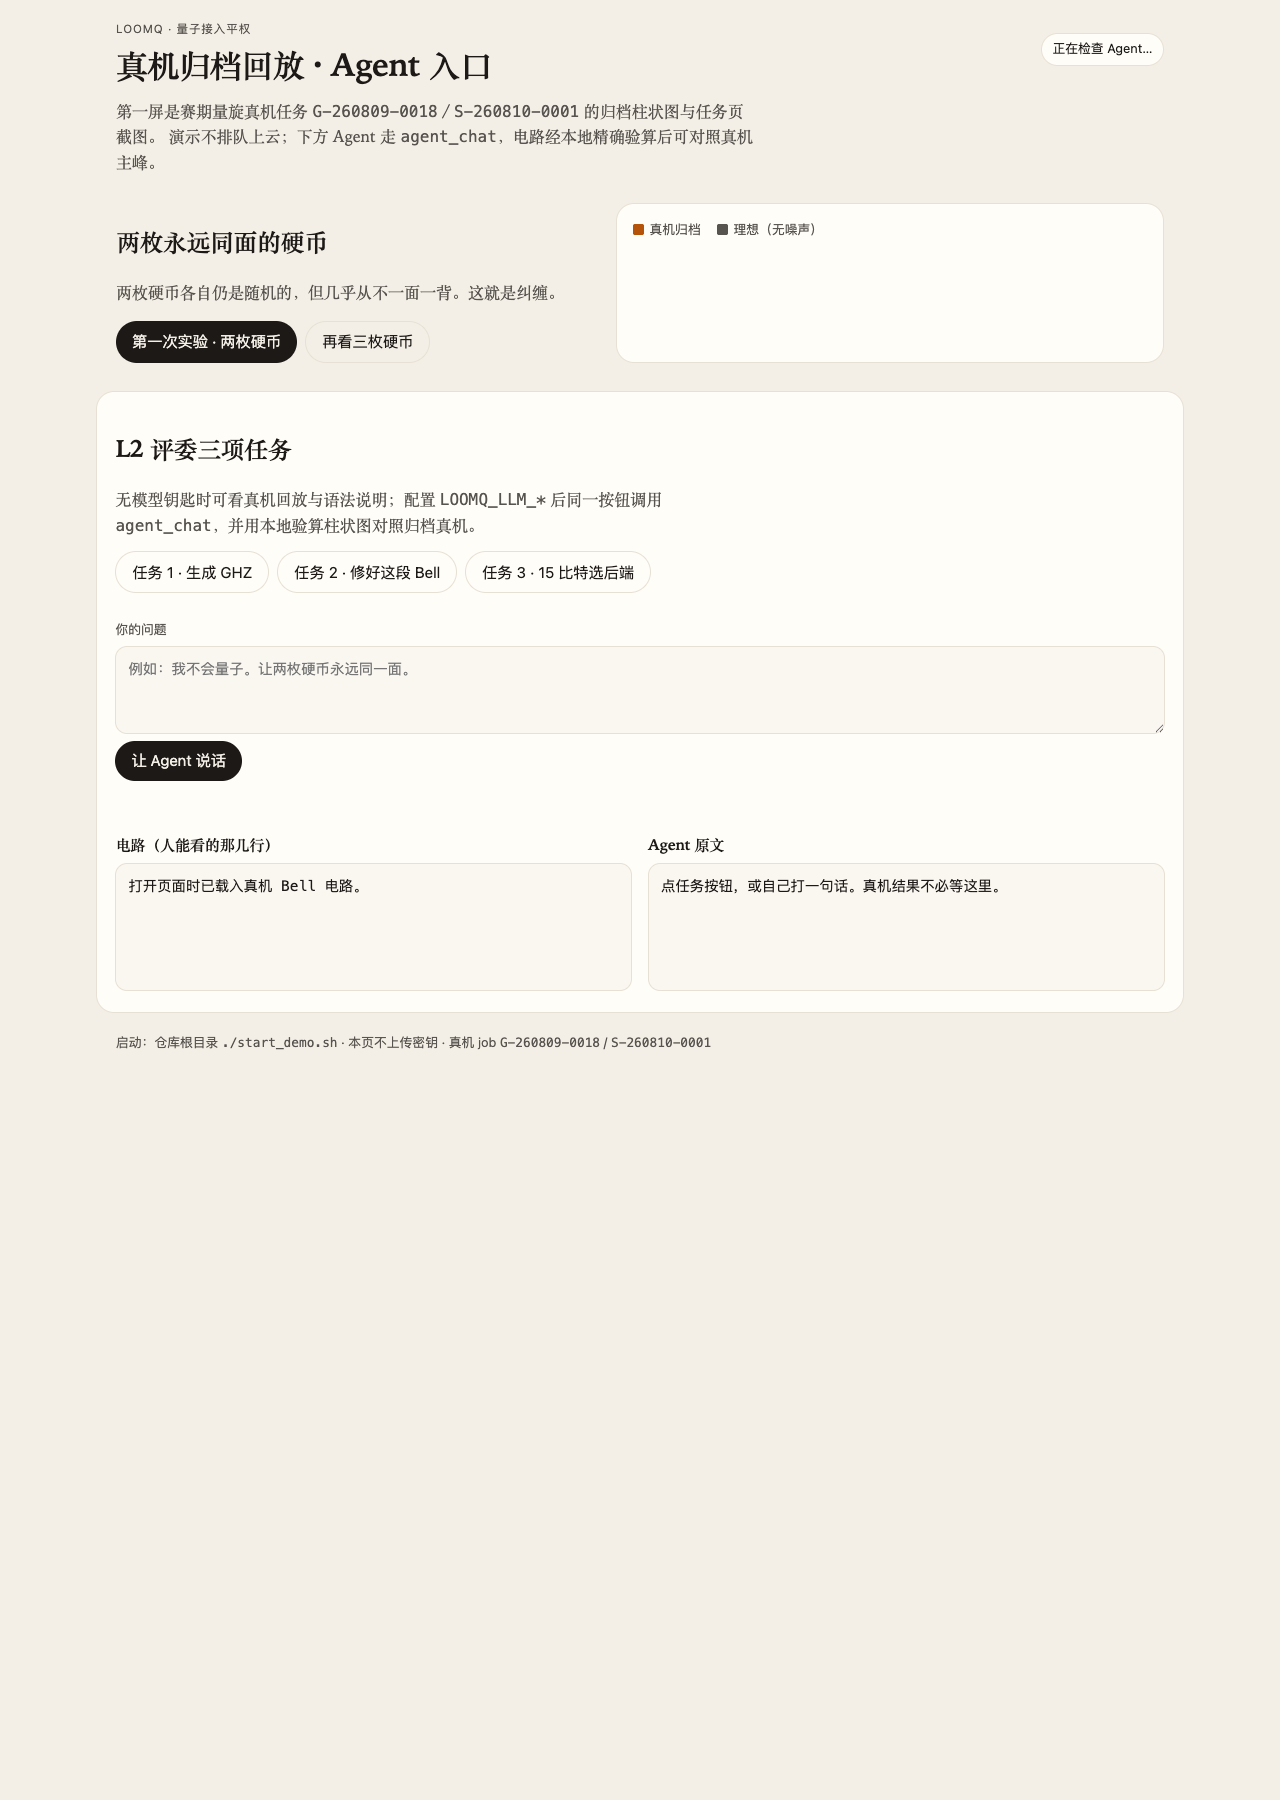
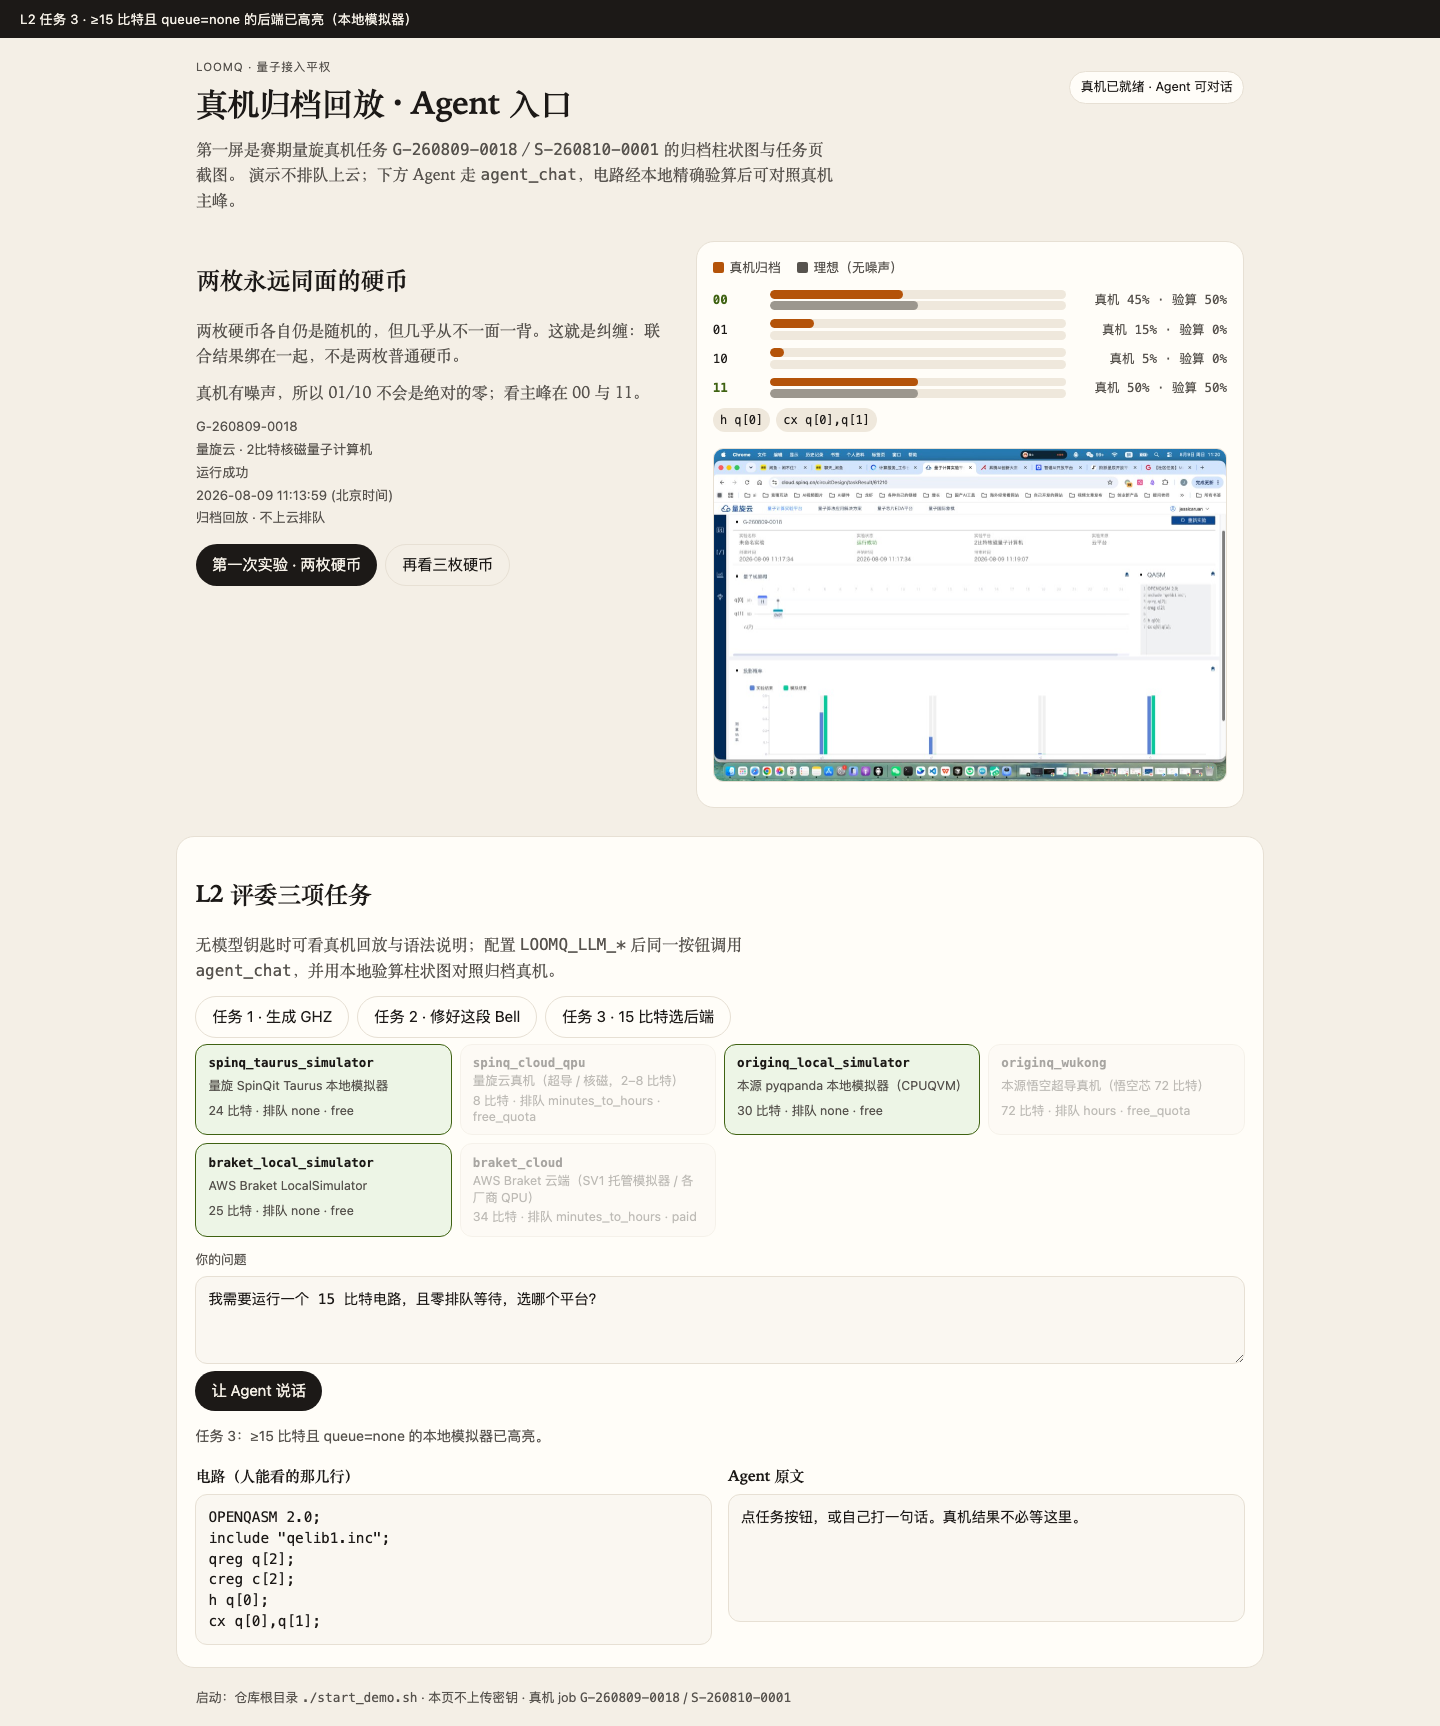
Refresh L2 demo modes, evidence table, and distinct screenshots.
Add judge-facing demo banners for the three L2 tasks, document OriginQ
maintenance attempts, update the public standings to Issue #44, and replace
duplicate L2 web screenshots with four distinct captures.

diff --git a/starter_kit/web/app.js b/starter_kit/web/app.js
@@ -16,6 +16,7 @@ const legendSim = document.getElementById("legend-sim");
 const gatesEl = document.getElementById("gates");
 const repairEl = document.getElementById("repair");
 const boardEl = document.getElementById("backend-board");
+const demoBannerEl = document.getElementById("demo-banner");
 
 let experiments = [];
 let backends = [];
@@ -185,6 +186,20 @@ function showRepair(show) {
   repairEl.hidden = !show;
 }
 
+function setDemoMode(mode, bannerText) {
+  document.body.classList.remove("demo-repair", "demo-backend", "demo-ghz");
+  if (mode) {
+    document.body.classList.add("demo-" + mode);
+  }
+  if (bannerText) {
+    demoBannerEl.hidden = false;
+    demoBannerEl.textContent = bannerText;
+  } else {
+    demoBannerEl.hidden = true;
+    demoBannerEl.textContent = "";
+  }
+}
+
 async function sendPrompt() {
   const prompt = promptEl.value.trim();
   if (!prompt) {
@@ -300,8 +315,12 @@ Promise.all([
       renderExperiment(initial);
     }
     renderBackendBoard(null, false);
-    const demo = new URLSearchParams(window.location.search).get("demo");
-    if (demo === "repair") {
+    const demoMode = new URLSearchParams(window.location.search).get("demo");
+    if (demoMode === "repair") {
+      setDemoMode(
+        "repair",
+        "L2 任务 2 · 修 Bell 语法坑 + 对照 G-260809-0018 真机归档",
+      );
       showRepair(true);
       promptEl.value =
         "我想制备一个贝尔态，但这段代码报错了，帮我修好：H q[0]; CX q[0] q[1]";
@@ -310,25 +329,36 @@ Promise.all([
         renderExperiment(bell);
       }
       setStatus("任务 2：语法坑说明 + 真机 Bell 归档对照。");
-    } else if (demo === "backend") {
+    } else if (demoMode === "backend") {
+      setDemoMode(
+        "backend",
+        "L2 任务 3 · ≥15 比特且 queue=none 的后端已高亮（本地模拟器）",
+      );
       renderBackendBoard(null, true);
       promptEl.value = "我需要运行一个 15 比特电路，且零排队等待，选哪个平台？";
       setStatus("任务 3：≥15 比特且 queue=none 的本地模拟器已高亮。");
-    } else if (demo === "ghz") {
+    } else if (demoMode === "ghz" || demoMode === "ghz3") {
+      setDemoMode(
+        "ghz",
+        "L2 任务 1 · 三比特 GHZ 真机归档 S-260810-0001（000/111 主峰）",
+      );
       const ghz = experiments.find((item) => item.id === "ghz3");
       if (ghz) {
         renderExperiment(ghz);
+        promptEl.value = "生成一个 3 比特 GHZ 态并全测量";
       }
       setStatus("任务 1：三比特 GHZ 真机归档 000/111。");
+    } else {
+      setDemoMode(null, null);
     }
     if (!l2Configured) {
       llmBadge.textContent = "真机已就绪 · Agent 待填 .env";
-      if (!demo) {
+      if (!demoMode) {
         setStatus("先点第一次实验。三项任务无钥匙也能看懂；填 .env 后同一按钮会真的调用模型。");
       }
     } else {
       llmBadge.textContent = "真机已就绪 · Agent 可对话";
-      if (!demo) {
+      if (!demoMode) {
         setStatus("先看真机主峰，再用下面三个按钮走评委三项任务。");
       }
     }

diff --git a/starter_kit/web/style.css b/starter_kit/web/style.css
@@ -78,6 +78,33 @@ h1 {
   white-space: nowrap;
 }
 
+.demo-banner {
+  margin: 0;
+  padding: 0.55rem 1.25rem;
+  background: var(--ink);
+  color: var(--paper);
+  font-family: ui-sans-serif, system-ui, sans-serif;
+  font-size: 0.82rem;
+  letter-spacing: 0.02em;
+}
+
+body.demo-repair .repair {
+  border-color: var(--exp);
+  box-shadow: inset 0 0 0 1px rgba(180, 83, 9, 0.25);
+}
+
+body.demo-backend .board {
+  margin-top: 0.35rem;
+}
+
+body.demo-backend .bcard.fit {
+  background: #edf5e6;
+}
+
+body.demo-ghz .hero-copy .primary {
+  background: var(--ink);
+}
+
 .badge.warn {
   border-color: #d6d3d1;
   color: #9a3412;

diff --git a/starter_kit/web/index.html b/starter_kit/web/index.html
@@ -7,6 +7,7 @@
     <link rel="stylesheet" href="/style.css" />
   </head>
   <body>
+    <p id="demo-banner" class="demo-banner" hidden></p>
     <header class="top">
       <div>
         <p class="kicker">LoomQ · 量子接入平权</p>

diff --git a/starter_kit/evidence/README.md b/starter_kit/evidence/README.md
@@ -13,25 +13,28 @@
 ```
 
 1. 第一屏：量旋真机 Bell `G-260809-0018`，柱状图主峰 **00/11**（归档回放，不排队）。  
-2. 点「再看三枚硬币」或 `?exp=ghz3`：GHZ `S-260810-0001`，主峰 **000/111**。  
+2. 点「再看三枚硬币」或 `?demo=ghz3` / `?exp=ghz3`：GHZ `S-260810-0001`，主峰 **000/111**。  
 3. L2 三项：`?demo=repair` 语法说明 · `?demo=backend` 15 比特零排队能力表 · 任务 1 GHZ 需 `LOOMQ_LLM_*` 调 Agent。  
 
 **目标用户**：已有 OpenQASM/多 SDK 经验的产品与开发——一份中间层 + 可溯源真机 job，而不是再学三家方言。
 
-## 公开态势对照（2026-08-20，仅 Issue 回执 + evidence 头）
+## 公开态势对照（2026-08-20 傍晚，仅 Issue 回执 + evidence 头）
 
 | 队 | 最后 Issue | L1–L3 | 真机叙事 | L2/产品公开面 |
 |---|---|---|---|---|
 | WilderNoTrack | #31 | 全勾 | **量旋+本源**，各 2 job | `python3 -m loomq web` :8787 |
 | AphrixZjr | #32 | 全勾 | Origin+SpinQ 脚本化 | Docker compose + web 单测 |
 | tale03 | #39 | 全勾 | 量旋+本源材料 | Flask `app.py` :5000 |
+| AzureWynn | #45 | 全勾 | 量旋 2q+3q（G/S-260817） | CLI 为主，无 Web |
+| **本队** | **#44** | **全勾** | **量旋 2q+3q 满 10 分**；本源维护中 | **`./start_demo.sh` 真机回放 Web** |
+| hongwei-2026 | #50 | 全勾 | 量旋 1 job（G-260820-0003） | `loomq_web.py` :8765 |
 | HpIahtcthocw | #27 | 全勾 | 量旋 2q+3q（同构） | 文档为主 |
-| **本队** | **#42→待更新** | **全勾** | **量旋 2q+3q**；本源维护中 | **`./start_demo.sh` 真机回放 Web** |
+| WayneYu1212 | #52 | 全勾 | evidence 空 | 待现场 |
 | yiyuanrvk77 | #36 | 全勾 | 量旋 1 台 | `web_demo.py` 柱状图 |
 | Jimmy658 | #38 | 全勾 | Issue 真机空 | L2 Agent |
 | lyl2222 | #37 | 无 L3 | 量旋 1 job | `web_app.py` |
 
-> 非官方排名。自动分取决于隐藏测例；人工分看真机 job、L2 现场、工程复现。
+> 非官方排名。自动分取决于隐藏测例；人工分看真机 job、L2 现场、工程复现。**本队 #44 SHA `fdd484d` 为当前生效提交。**
 
 ## 本包相对前 Issue (#42) 新增（须进 commit）
 
@@ -97,7 +100,7 @@ shots：结果页以投影概率为主展示（未在页头标明整数 shots；
 判定：有效（H + 两级 CNOT；实验主峰在 000/111，有 NISQ 泄漏）
 ```
 
-### 待补：本源悟空（120s 机时已开放；2026-08-19/20 云接口返回维护，未产生可溯源 job）
+### 待补：本源悟空（120s 机时已开放；2026-08-19/20 云接口仍返回维护，未产生可溯源 job）
 
 ```text
 平台名称：本源悟空（超导）
@@ -105,11 +108,11 @@ shots：结果页以投影概率为主展示（未在页头标明整数 shots；
 运行时间：[维护结束后填写]
 shots：256（计划）
 实际执行的 QASM：evidence/files/originq-bell.qasm（与量旋 Bell 同语义）
-平台返回的原始结果：evidence/files/originq-bell-result.json
+平台返回的原始结果：evidence/files/originq-bell-result.json（维护失败记录，非有效真机分）
 任务页截图：[维护成功后选填]
 ```
 
-2026-08-19：`async_real_chip_measure` 返回 `Quantum computer under maintenance`；未消耗有效结果。
+2026-08-19 与 2026-08-20 17:30 (UTC+8)：`async_real_chip_measure` 均返回 `Quantum computer under maintenance`；见 `originq-bell-result.json`。
 量旋双平台已满足人工真机 10 分上限；本源用于「两家中国云」答辩叙事，非第 11 分。
 
 ## L2 交互体验
